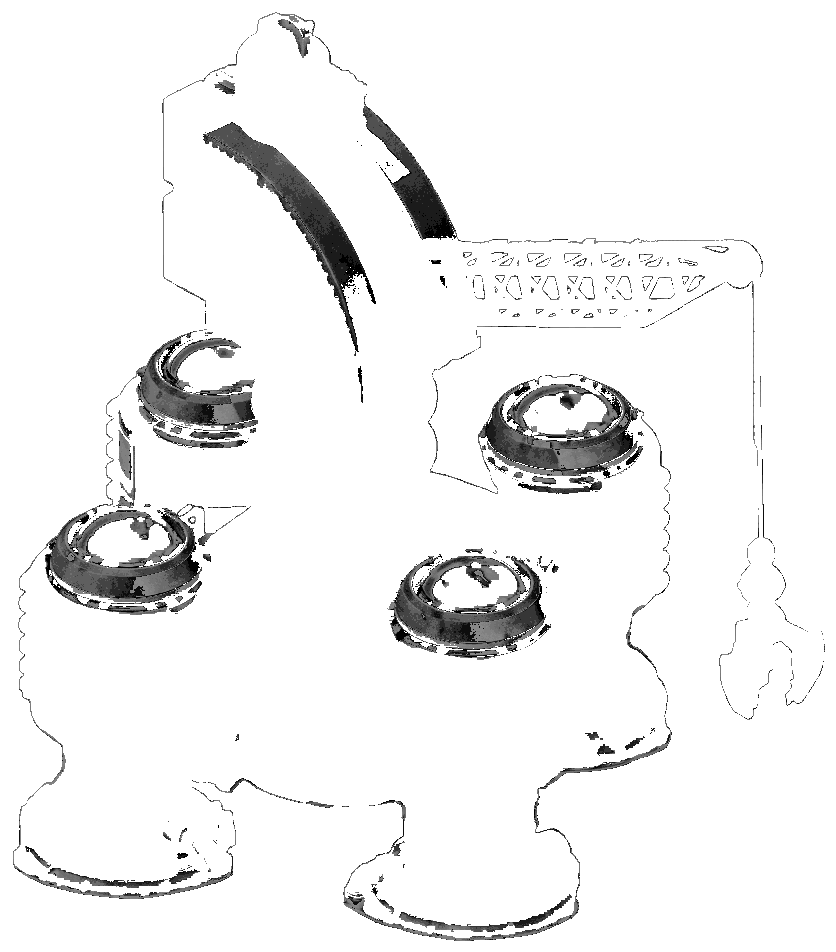
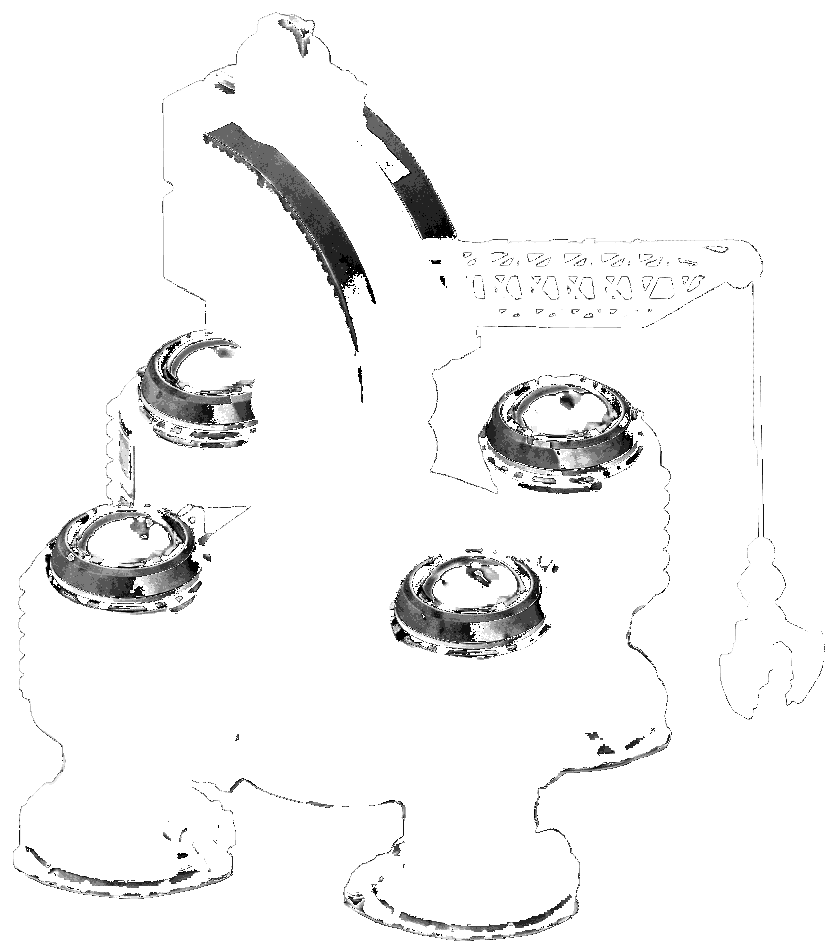
Firehawk Rearm-Fix + Rakete-Schaden + Sichtweiten (Cruiser/Missile Sub)
- Firehawk kreiste leer ueber dem Ziel statt aufzumunitionieren: AotReturnWhenEmpty
  zaehlte alle Ammo-Pools, aber die im Firehawk-Zustand ungenutzten A-10-Pools
  (vulcan/napalm) blieben voll -> nie "leer". Jetzt nur Pools einer aktivierten
  Waffe (RequiresCondition). Dazu Armaments/Pools sauber benannt + rockets in
  AttackAircraft.Armaments.
- Firehawk-Rakete 7000 -> 7500: volle Ladung (6x7500=45.000) >= volle Napalm-Ladung.
- Battle Cruiser Sicht 7c0 -> 18c0 (Railgun 14c0); Missile Sub 14c0 nur aufgetaucht.
- GDI Werft Age-2 Remap-PNG auf Original zurueck (Matte hatte Player-Color-Rampe
  verschoben -> Player-Color war weg).

diff --git a/engine/OpenRA.Mods.Common/Traits/Air/AotReturnWhenEmpty.cs b/engine/OpenRA.Mods.Common/Traits/Air/AotReturnWhenEmpty.cs
@@ -24,6 +24,7 @@ namespace OpenRA.Mods.Common.Traits
 	{
 		readonly AotReturnWhenEmptyInfo info;
 		AmmoPool[] ammoPools;
+		Armament[] armaments;
 		bool wasEmpty;
 		bool hasResumeTarget;
 		Target resumeTarget;
@@ -44,6 +45,41 @@ namespace OpenRA.Mods.Common.Traits
 		void INotifyCreated.Created(Actor self)
 		{
 			ammoPools = self.TraitsImplementing<AmmoPool>().ToArray();
+			armaments = self.TraitsImplementing<Armament>().ToArray();
+		}
+
+		// aotmod: Nur Ammo-Pools zaehlen, die eine AKTUELL aktivierte Waffe speisen (Waffe per
+		// RequiresCondition enabled -- Pause zaehlt NICHT, denn genau die leere Waffe pausiert sich
+		// per PauseOnCondition: !<ammo>). Sonst blockieren stillgelegte Pools die Leer-Erkennung:
+		// der Firehawk (aot-firehawk) feuert nur die Rocket-Pool, traegt aber weiterhin die vollen
+		// A-10-Pools vulcan/napalm -> ammoPools.All(!HasAmmo) wurde nie wahr -> kein Rearm-
+		// Rueckflug, der Jet kreiste leer ueber dem Ziel.
+		bool AllActivePoolsEmpty()
+		{
+			var sawActive = false;
+			foreach (var p in ammoPools)
+			{
+				var isFed = false;
+				foreach (var arm in armaments)
+				{
+					if (arm.IsTraitDisabled)
+						continue;
+					if (p.Info.Armaments.Contains(arm.Info.Name))
+					{
+						isFed = true;
+						break;
+					}
+				}
+
+				if (!isFed)
+					continue;
+
+				sawActive = true;
+				if (p.HasAmmo)
+					return false;
+			}
+
+			return sawActive;
 		}
 
 		void INotifyAttack.PreparingAttack(Actor self, in Target target, Armament a, Barrel barrel) { }
@@ -58,7 +94,7 @@ namespace OpenRA.Mods.Common.Traits
 			if (!self.IsInWorld || self.IsDead)
 				return;
 
-			var isEmpty = ammoPools.Length > 0 && ammoPools.All(p => !p.HasAmmo);
+			var isEmpty = AllActivePoolsEmpty();
 
 			if (!wasEmpty && isEmpty && !hasReturnPos)
 			{
